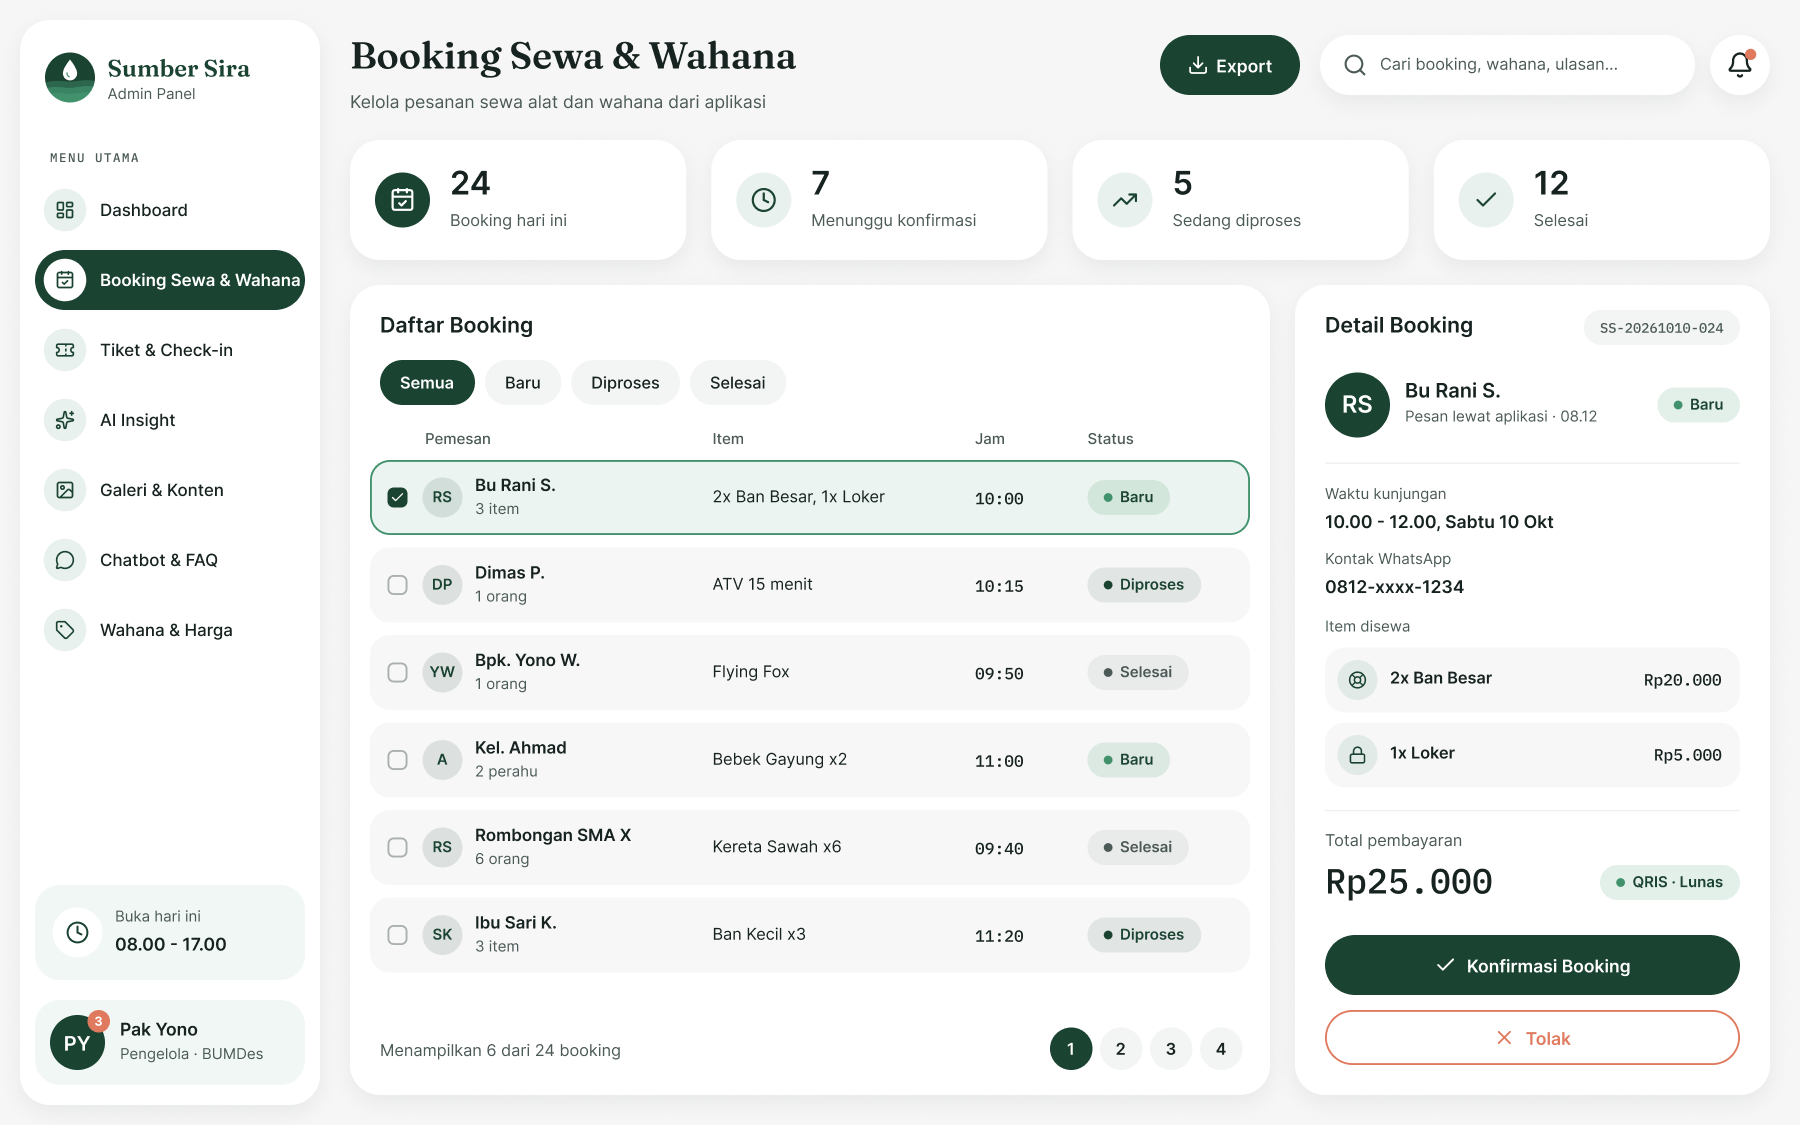
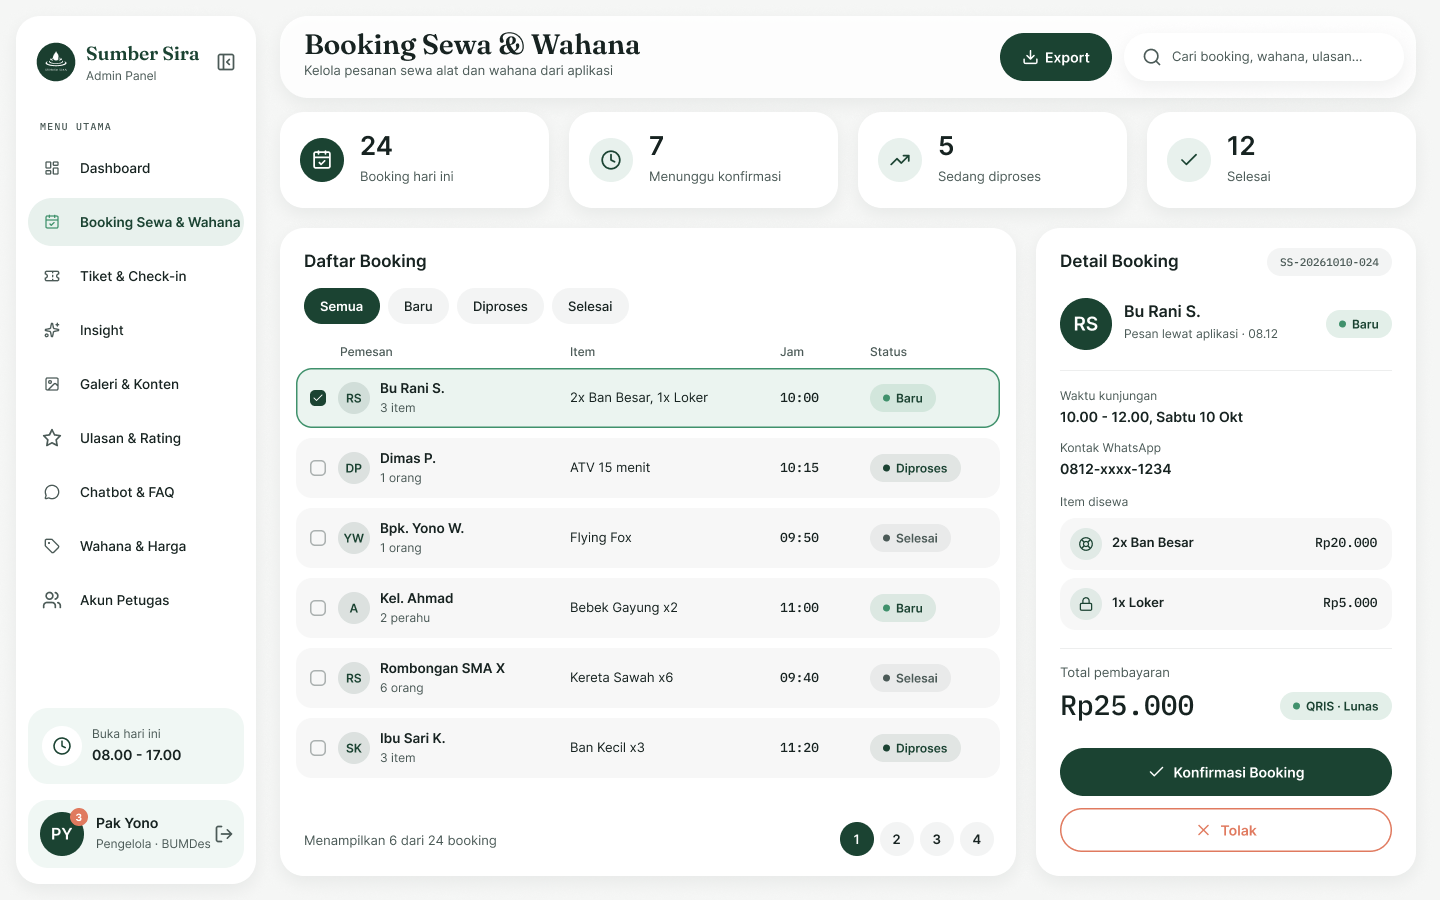
docs: ekspor desain web admin diperbarui dari Figma, kini 11 halaman
Desain admin di Figma disamakan dengan web: sidebar 9 menu, header kartu kaca tanpa lonceng, nama Insight, dan tiga bingkai baru (Akun Petugas, Ulasan & Rating, Akun & Sesi). Seluruh PNG admin di desain/ diganti dengan ekspor terbaru (sebelumnya bertanggal 12 Okt), AI Insight berganti nama menjadi Insight, dan README disesuaikan.

diff --git a/README.md b/README.md
@@ -328,7 +328,7 @@ mobile/                Aplikasi pengunjung (Flutter), lihat bagian Aplikasi Mobi
 desain/                Aset gambar
   foto/                Foto asli Sumber Sira yang dipakai aplikasi (di-import lewat src/lib/foto.ts)
   screenshot/          Tangkapan layar aplikasi untuk README
-  HI-FI · Web Admin ·  Ekspor PNG desain web admin dari Figma (acuan tampilan, diekspor 1,25×)
+  HI-FI · Web Admin ·  Ekspor PNG 11 halaman web admin dari Figma (acuan tampilan, diekspor 1×)
 src/app/               Halaman (App Router). Tiap halaman punya folder components/ berisi section-nya,
                        page.tsx hanya menyusun section. Folder (nama) = route group, tidak mengubah alamat
   admin/login/         Halaman login admin, alamat /admin/login
@@ -386,9 +386,9 @@ src/lib/               Utilitas tanpa state
 
 ## Catatan desain
 
-- Ukuran mengikuti Figma: frame mobile **375 × 812** dan admin **1440 × 900**. PNG admin di `desain/` diekspor 1,25×
-  (1 px di kode = 1,25 px di PNG), kecuali Chatbot & FAQ yang diekspor 1× dan lebih tinggi karena memuat kartu Alur Jawaban dan
-  Tombol Jawaban Cepat. Ukuran teks, jarak, dan kartu diukur dari PNG.
+- Ukuran mengikuti Figma: frame mobile **375 × 812** dan admin **1440 × 900**. PNG admin di `desain/` diekspor 1×
+  (1 px di kode = 1 px di PNG); Chatbot & FAQ lebih tinggi karena memuat kartu Alur Jawaban dan Tombol Jawaban Cepat.
+  Ada 11 halaman, sama dengan menu web admin. Ukuran teks, jarak, dan kartu diukur dari PNG.
 - Tampilan mobile mengikuti gaya iOS 27 (Liquid Glass), hanya mode terang, dengan dua lapisan yang jelas:
   lapisan navigasi (tab bar, nav bar saat digulir, CTA mengambang, sheet) dari kaca, lapisan konten (kartu, list, foto, form) permukaan putih solid.
   Kaca terang = Putih 72% + blur + garis tepi Putih 50% + bayangan 0 8 24 Ink 10%; kaca gelap = Putih 12% + blur; CTA primer = Hijau Tua 85%.
